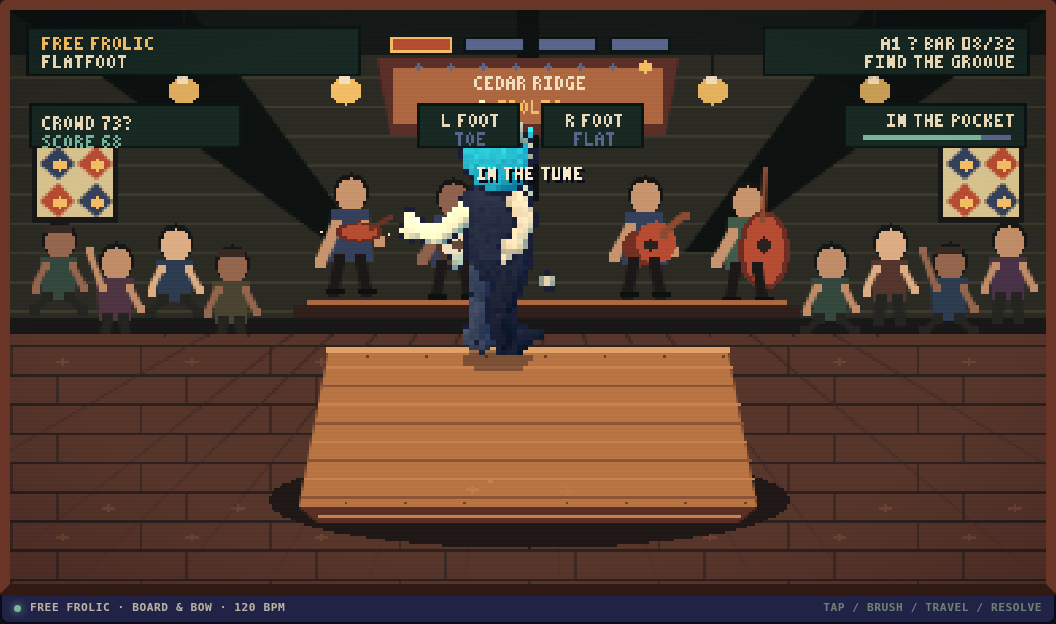
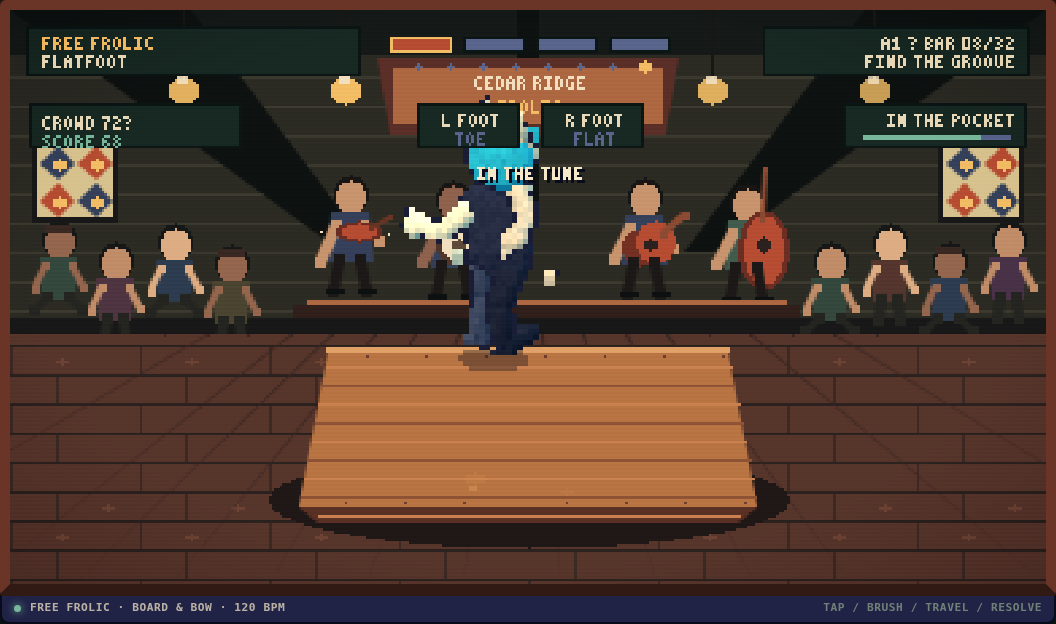
Keep articulation contacts in player action order

diff --git a/tests/appalachian-instrument.test.js b/tests/appalachian-instrument.test.js
@@ -530,6 +530,29 @@ test("authored multi-contact brushes count as one intentional foot action", () =
   assert.notEqual(state.id, PERFORMANCE_STATES.SCRAMBLING);
 });
 
+test("foot independence follows input action order when articulations contact out of order", () => {
+  const performance = new AppalachianPerformanceState();
+  const actions = [
+    { actionId: 1, tick: 48, foot: "left", articulation: "brush" },
+    { actionId: 2, tick: 40, foot: "right", articulation: "flat" },
+    { actionId: 3, tick: 144, foot: "left", articulation: "heel" },
+    { actionId: 4, tick: 136, foot: "right", articulation: "toe" },
+    { actionId: 5, tick: 240, foot: "left", articulation: "brush" },
+    { actionId: 6, tick: 232, foot: "right", articulation: "flat" },
+  ];
+  for (const action of actions) {
+    performance.recordContact({
+      ...action,
+      moveId: "walkingStep",
+      timingOffsetTicks: 0,
+    });
+  }
+  const state = performance.update(288, { averageTransitionScore: 0.82 });
+  assert.equal(state.independence, 1);
+  assert.equal(state.repeatedFootRuns, 0);
+  assert.equal(state.mash, false);
+});
+
 test("travel facing changes are responsive without snapping", () => {
   const controller = new AppalachianAnimationController({ style: "flatfoot" });
   controller.update(1, { dt: DT, input: { travelX: 1, travelY: 0 } });

diff --git a/js/appalachian/performance-state.js b/js/appalachian/performance-state.js
@@ -133,8 +133,9 @@ export function performanceDiagnostics(
   const independence = actions.length > 1 ? alternations / (actions.length - 1) : 0;
   const articulationVariety = uniqueRatio(ordered.map((value) => value.articulation), 4);
   const moveVariety = uniqueRatio(actions.map((value) => value.moveId), 5);
+  const actionTicks = actions.map((value) => value.tick);
   const spanBeats = actions.length > 1
-    ? Math.max(1, (actions.at(-1).tick - actions[0].tick) / FROLIC_PPQ)
+    ? Math.max(1, (Math.max(...actionTicks) - Math.min(...actionTicks)) / FROLIC_PPQ)
     : 1;
   const density = actions.length / spanBeats;
   const dominantFoot = dominantRatio(actions.map((value) => value.foot));
@@ -206,7 +207,14 @@ function collapseContactsByAction(contacts) {
     seen.add(key);
     values.push(Object.freeze({ ...contact, key }));
   }
-  return values;
+  return values.sort((left, right) => {
+    if (
+      Number.isFinite(left.actionId)
+      && Number.isFinite(right.actionId)
+      && left.actionId !== right.actionId
+    ) return left.actionId - right.actionId;
+    return left.tick - right.tick;
+  });
 }
 
 function stateSnapshot(state, ageTicks, diagnostics) {

diff --git a/docs/FUN-OVERHAUL-AUDIT.md b/docs/FUN-OVERHAUL-AUDIT.md
@@ -6,7 +6,7 @@ Status: implementation checklist, not a quality claim
 
 ## What was actually run
 
-- `npm run verify`: 103 JavaScript modules passed syntax checking and all 127
+- `npm run verify`: 103 JavaScript modules passed syntax checking and all 128
   deterministic assertions passed.
 - Local forced-WebGL2 browser smoke: passed with no console or request errors.
 - Public Pages forced-WebGL2 browser smoke: passed with no console or request
@@ -63,8 +63,10 @@ Status: implementation checklist, not a quality claim
   Pocket, Cooking, Scrambling, Recovery) driven by recent timing, clarity,
   transitions, conflicts, and recoveries rather than raw button count.
 - [x] **Strengthened:** multi-contact brushes count as one player action for
-  density and independence, and a requested articulation can ride a compatible
-  base-motion handoff instead of collapsing into generic recovery.
+  density and independence, contact offsets cannot reorder the player's
+  authoritative left/right action sequence, and a requested articulation can
+  ride a compatible base-motion handoff instead of collapsing into generic
+  recovery.
 - [x] **Bounded:** travel steering and low-pivot accents share a single
   five-radian-per-second facing budget.
 - [ ] **Inspect visually:** the automatic basis and drift checks pass, but
